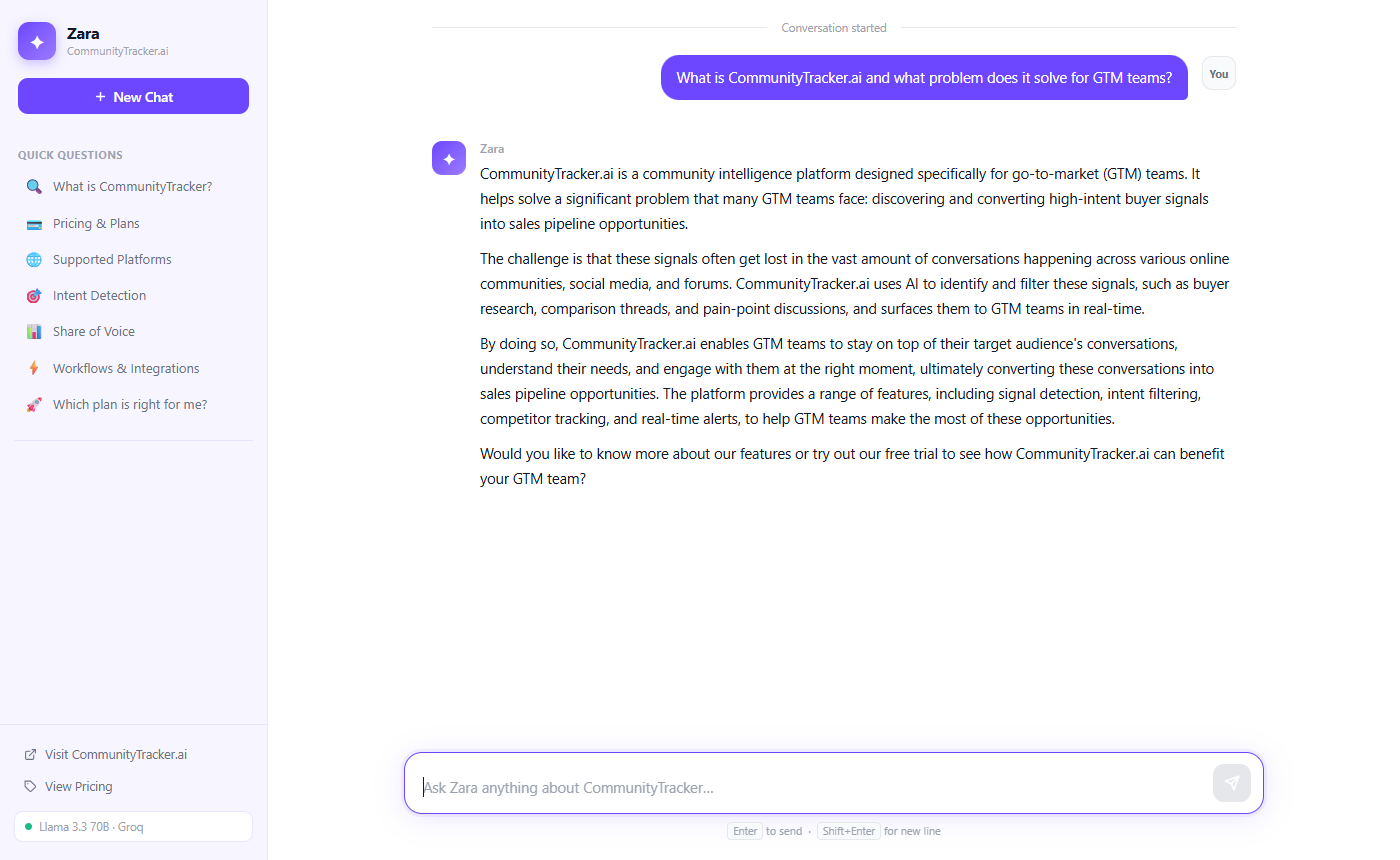
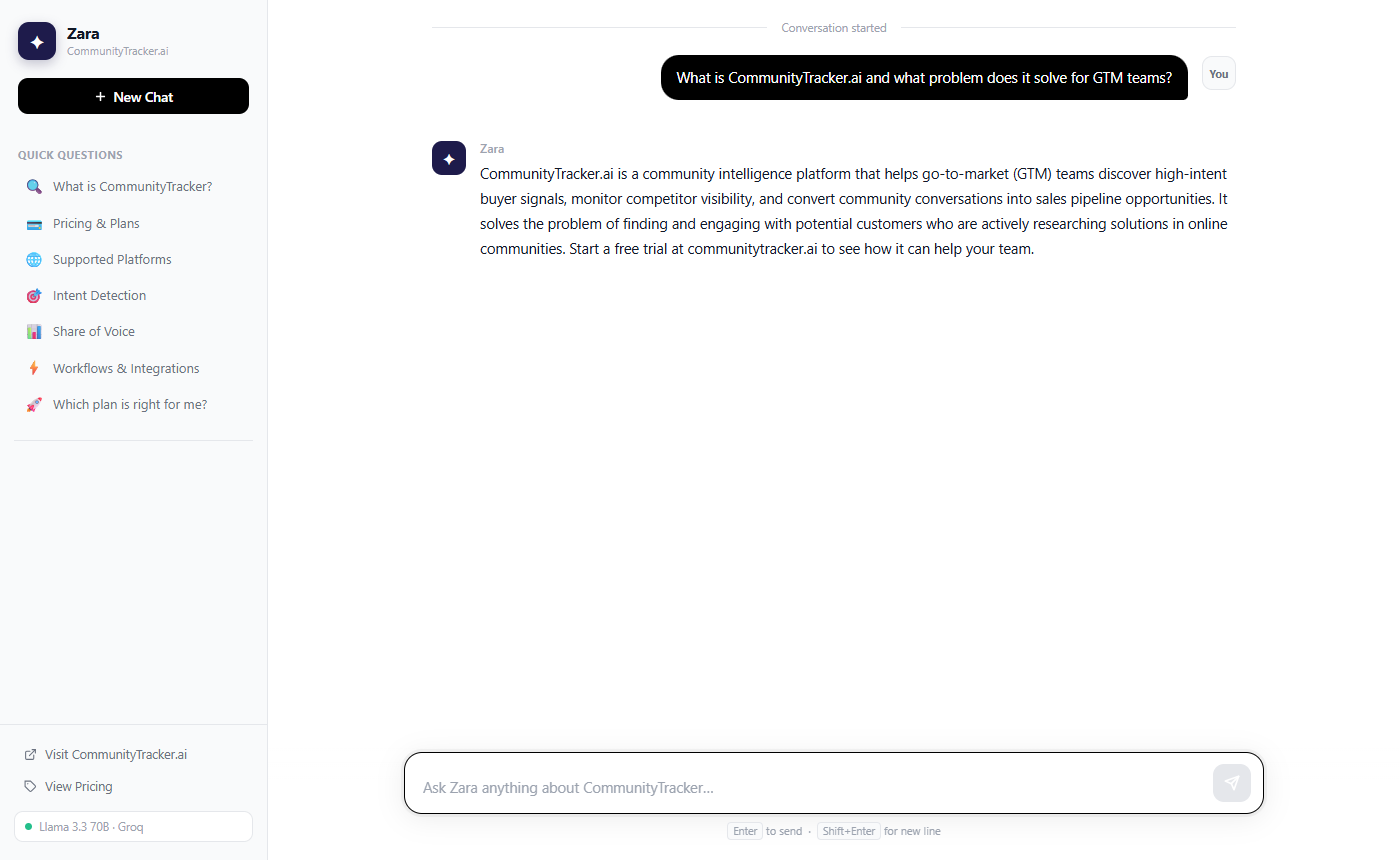
Retheme Zara to match CommunityTracker.ai brand
- Replace purple with website brand colors: #1E1B4B (indigo) + #25D366 (green) + black
- Widget bubble: green (#25D366) to match website CTA buttons
- Headers and avatars: deep indigo (#1E1B4B) matching hero sections
- User messages and send button: black pill-shaped matching website primary buttons
- Quick-reply chips: pill-shaped with black border on hover
- Updated screenshots with new theme

diff --git a/demo/index.html b/demo/index.html
@@ -8,19 +8,22 @@
     *, *::before, *::after { box-sizing: border-box; margin: 0; padding: 0; }
 
     :root {
-      --primary: #6C47FF;
-      --primary-hover: #5535E8;
-      --primary-dim: rgba(108,71,255,0.08);
+      --primary: #000000;
+      --primary-hover: #1a1a1a;
+      --primary-dim: rgba(0,0,0,0.05);
+      --accent: #25D366;
+      --accent-hover: #1db954;
+      --indigo: #1E1B4B;
       --sidebar-w: 268px;
-      --sidebar-bg: #F7F5FF;
-      --sidebar-border: #EAE5FF;
+      --sidebar-bg: #F9FAFB;
+      --sidebar-border: #E5E7EB;
       --bg: #ffffff;
       --text: #111827;
       --text-2: #6B7280;
       --text-3: #9CA3AF;
       --border: #E5E7EB;
       --surface: #F9FAFB;
-      --shadow-sm: 0 1px 3px rgba(0,0,0,0.08);
+      --shadow-sm: 0 1px 3px rgba(0,0,0,0.06);
       --shadow-md: 0 4px 24px rgba(0,0,0,0.08);
     }
 
@@ -64,10 +67,10 @@
     .brand-icon {
       width: 38px; height: 38px;
       border-radius: 11px;
-      background: linear-gradient(135deg, #6C47FF, #9C7BFF);
+      background: #1E1B4B;
       display: flex; align-items: center; justify-content: center;
       color: #fff; font-size: 19px; flex-shrink: 0;
-      box-shadow: 0 4px 12px rgba(108,71,255,0.3);
+      box-shadow: 0 4px 12px rgba(30,27,75,0.25);
     }
 
     .brand-name { font-size: 15.5px; font-weight: 700; color: var(--text); line-height: 1.2; }
@@ -108,7 +111,7 @@
       border: none; background: none; width: 100%; text-align: left;
       font-family: inherit;
     }
-    .nav-item:hover { background: rgba(108,71,255,0.09); color: var(--primary); }
+    .nav-item:hover { background: rgba(0,0,0,0.05); color: var(--primary); }
     .nav-item .nav-icon { font-size: 15px; flex-shrink: 0; width: 20px; text-align: center; }
 
     .sidebar-divider { height: 1px; background: var(--sidebar-border); margin: 10px 14px; }
@@ -127,7 +130,7 @@
       transition: background 0.12s, color 0.12s;
       margin-bottom: 2px;
     }
-    .foot-link:hover { background: rgba(108,71,255,0.09); color: var(--primary); }
+    .foot-link:hover { background: rgba(0,0,0,0.05); color: var(--primary); }
 
     .model-pill {
       display: flex; align-items: center; gap: 7px;
@@ -195,10 +198,10 @@
 
     .welcome-avatar {
       width: 80px; height: 80px; border-radius: 24px;
-      background: linear-gradient(135deg, #6C47FF, #9C7BFF);
+      background: #1E1B4B;
       display: flex; align-items: center; justify-content: center;
       font-size: 42px; margin-bottom: 24px;
-      box-shadow: 0 12px 40px rgba(108,71,255,0.3);
+      box-shadow: 0 12px 40px rgba(30,27,75,0.2);
       animation: float 3s ease-in-out infinite;
     }
     @keyframes float {
@@ -207,9 +210,8 @@
 
     .welcome h2 {
       font-size: 30px; font-weight: 800;
-      background: linear-gradient(135deg, #6C47FF, #9C7BFF);
-      -webkit-background-clip: text; -webkit-text-fill-color: transparent;
-      background-clip: text; margin-bottom: 10px;
+      color: #1E1B4B;
+      margin-bottom: 10px;
     }
 
     .welcome-sub {
@@ -229,8 +231,8 @@
       transition: border-color 0.15s, box-shadow 0.15s, transform 0.15s;
     }
     .card:hover {
-      border-color: var(--primary);
-      box-shadow: 0 6px 24px rgba(108,71,255,0.13);
+      border-color: #000;
+      box-shadow: 0 6px 24px rgba(0,0,0,0.1);
       transform: translateY(-2px);
     }
     .card:active { transform: translateY(0); }
@@ -255,7 +257,7 @@
       justify-content: center; font-size: 16px; margin-top: 1px;
       position: sticky; top: 0; /* keeps avatar visible while scrolling long messages */
     }
-    .msg-row.bot  .msg-avatar { background: linear-gradient(135deg,#6C47FF,#9C7BFF); color:#fff; }
+    .msg-row.bot  .msg-avatar { background: #1E1B4B; color:#fff; }
     .msg-row.user .msg-avatar { background: var(--surface); border: 1px solid var(--border); font-size: 11px; font-weight: 700; color: var(--text-2); }
 
     .msg-body { flex: 1; min-width: 0; }
@@ -291,7 +293,7 @@
     .bot-text ul, .bot-text ol { padding-left: 22px; margin: 8px 0; }
     .bot-text li         { margin-bottom: 5px; }
     .bot-text code       {
-      background: var(--primary-dim); color: var(--primary);
+      background: #F3F4F6; color: #1E1B4B;
       padding: 2px 6px; border-radius: 5px;
       font-family: 'SF Mono','Fira Code',monospace; font-size: 13px;
     }
@@ -322,7 +324,7 @@
     /* ── TYPING CURSOR ───────────────────────────────── */
     .cursor {
       display: inline-block; width: 2px; height: 16px;
-      background: var(--primary); margin-left: 2px;
+      background: #25D366; margin-left: 2px;
       vertical-align: middle; border-radius: 1px;
       animation: blink 0.75s step-end infinite;
     }
@@ -335,7 +337,7 @@
     }
     .typing-dots span {
       width: 8px; height: 8px; border-radius: 50%;
-      background: #C4B5FD; opacity: 0.6;
+      background: #9CA3AF; opacity: 0.6;
       animation: bounce 1.3s ease-in-out infinite;
     }
     .typing-dots span:nth-child(2) { animation-delay: 0.16s; }
@@ -376,8 +378,8 @@
       pointer-events: all;
     }
     .input-box:focus-within {
-      border-color: var(--primary);
-      box-shadow: 0 4px 28px rgba(108,71,255,0.14), 0 0 0 3px rgba(108,71,255,0.07);
+      border-color: #000;
+      box-shadow: 0 4px 28px rgba(0,0,0,0.08), 0 0 0 3px rgba(0,0,0,0.04);
     }
 
     #chatInput {

diff --git a/widget/zara-widget.js b/widget/zara-widget.js
@@ -7,13 +7,13 @@
     #zara-widget-btn {
       position: fixed; bottom: 24px; right: 24px; z-index: 99998;
       width: 58px; height: 58px; border-radius: 50%;
-      background: linear-gradient(135deg, #6C47FF, #9C7BFF);
-      border: none; cursor: pointer; box-shadow: 0 4px 20px rgba(108,71,255,0.45);
+      background: #25D366;
+      border: none; cursor: pointer; box-shadow: 0 4px 20px rgba(37,211,102,0.4);
       display: flex; align-items: center; justify-content: center;
       transition: transform 0.2s, box-shadow 0.2s;
       font-size: 26px; color: #fff;
     }
-    #zara-widget-btn:hover { transform: scale(1.08); box-shadow: 0 6px 28px rgba(108,71,255,0.55); }
+    #zara-widget-btn:hover { transform: scale(1.08); box-shadow: 0 6px 28px rgba(37,211,102,0.5); }
     #zara-widget-btn .zara-close-ico { display: none; font-size: 20px; }
     #zara-widget-btn.open .zara-chat-ico { display: none; }
     #zara-widget-btn.open .zara-close-ico { display: flex; }
@@ -35,7 +35,7 @@
 
     /* Header */
     .zw-header {
-      background: linear-gradient(135deg, #6C47FF, #9C7BFF);
+      background: #1E1B4B;
       padding: 14px 16px; display: flex; align-items: center; gap: 10px; flex-shrink: 0;
     }
     .zw-avatar {
@@ -47,7 +47,7 @@
     .zw-header-info { flex: 1; }
     .zw-name { font-size: 14px; font-weight: 700; color: #fff; }
     .zw-status { font-size: 11px; color: rgba(255,255,255,0.8); display: flex; align-items: center; gap: 5px; margin-top: 1px; }
-    .zw-dot { width: 6px; height: 6px; border-radius: 50%; background: #4ade80; flex-shrink: 0; animation: zw-glow 2s ease-in-out infinite; }
+    .zw-dot { width: 6px; height: 6px; border-radius: 50%; background: #25D366; flex-shrink: 0; animation: zw-glow 2s ease-in-out infinite; }
     @keyframes zw-glow { 0%,100%{opacity:1} 50%{opacity:0.4} }
     .zw-new-btn {
       background: rgba(255,255,255,0.2); border: none; color: #fff;
@@ -72,25 +72,23 @@
     }
     .zw-welcome-avatar {
       width: 54px; height: 54px; border-radius: 16px;
-      background: linear-gradient(135deg, #6C47FF, #9C7BFF);
+      background: #1E1B4B;
       display: flex; align-items: center; justify-content: center;
       font-size: 28px; margin-bottom: 4px;
-      box-shadow: 0 8px 24px rgba(108,71,255,0.3);
+      box-shadow: 0 8px 24px rgba(30,27,75,0.2);
     }
     .zw-welcome h3 {
-      font-size: 16px; font-weight: 800; margin: 0;
-      background: linear-gradient(135deg, #6C47FF, #9C7BFF);
-      -webkit-background-clip: text; -webkit-text-fill-color: transparent; background-clip: text;
+      font-size: 16px; font-weight: 800; margin: 0; color: #1E1B4B;
     }
     .zw-welcome p { font-size: 12px; color: #6B7280; line-height: 1.55; margin: 0; }
     .zw-chips { display: flex; flex-wrap: wrap; gap: 6px; justify-content: center; margin-top: 4px; }
     .zw-chip {
-      background: #F3F0FF; color: #6C47FF; border: 1px solid #E0D9FF;
-      border-radius: 20px; padding: 5px 11px; font-size: 11.5px;
-      cursor: pointer; transition: background 0.15s; white-space: nowrap;
+      background: #fff; color: #111827; border: 1px solid #E5E7EB;
+      border-radius: 9999px; padding: 5px 12px; font-size: 11.5px;
+      cursor: pointer; transition: background 0.15s, border-color 0.15s; white-space: nowrap;
       font-family: inherit;
     }
-    .zw-chip:hover { background: #E9E3FF; }
+    .zw-chip:hover { background: #F9FAFB; border-color: #111827; }
 
     /* Message rows */
     .zw-row { display: flex; gap: 8px; align-items: flex-start; }
@@ -99,7 +97,7 @@
       width: 28px; height: 28px; border-radius: 8px; flex-shrink: 0;
       display: flex; align-items: center; justify-content: center; font-size: 14px;
     }
-    .zw-row.bot .zw-msg-avatar { background: linear-gradient(135deg,#6C47FF,#9C7BFF); color: #fff; }
+    .zw-row.bot .zw-msg-avatar { background: #1E1B4B; color: #fff; }
     .zw-row.user .zw-msg-avatar { background: #F3F4F6; border: 1px solid #E5E7EB; font-size: 10px; font-weight: 700; color: #6B7280; }
     .zw-bubble {
       max-width: 82%; font-size: 13px; line-height: 1.6;
@@ -110,7 +108,7 @@
       border-radius: 4px 16px 16px 16px;
     }
     .zw-row.user .zw-bubble {
-      background: #6C47FF; color: #fff;
+      background: #000; color: #fff;
       border-radius: 16px 4px 16px 16px;
     }
     .zw-bubble strong { font-weight: 650; }
@@ -137,7 +135,7 @@
       border-radius: 14px; padding: 8px 10px 8px 14px;
       transition: border-color 0.18s;
     }
-    .zw-input-box:focus-within { border-color: #6C47FF; background: #fff; }
+    .zw-input-box:focus-within { border-color: #000; background: #fff; }
     #zw-input {
       flex: 1; border: none; outline: none; background: transparent;
       font-size: 13px; line-height: 1.5; resize: none;
@@ -145,13 +143,13 @@
     }
     #zw-input::placeholder { color: #9CA3AF; }
     .zw-send {
-      width: 32px; height: 32px; border-radius: 9px; flex-shrink: 0;
-      background: #6C47FF; color: #fff; border: none; cursor: pointer;
+      width: 32px; height: 32px; border-radius: 9999px; flex-shrink: 0;
+      background: #000; color: #fff; border: none; cursor: pointer;
       display: flex; align-items: center; justify-content: center;
       transition: background 0.15s, transform 0.1s, opacity 0.15s;
     }
     .zw-send:disabled { background: #E5E7EB; cursor: not-allowed; }
-    .zw-send:not(:disabled):hover { background: #5535E8; transform: scale(1.06); }
+    .zw-send:not(:disabled):hover { background: #1a1a1a; transform: scale(1.06); }
     .zw-footer {
       text-align: center; font-size: 10px; color: #D1D5DB; margin-top: 6px;
     }